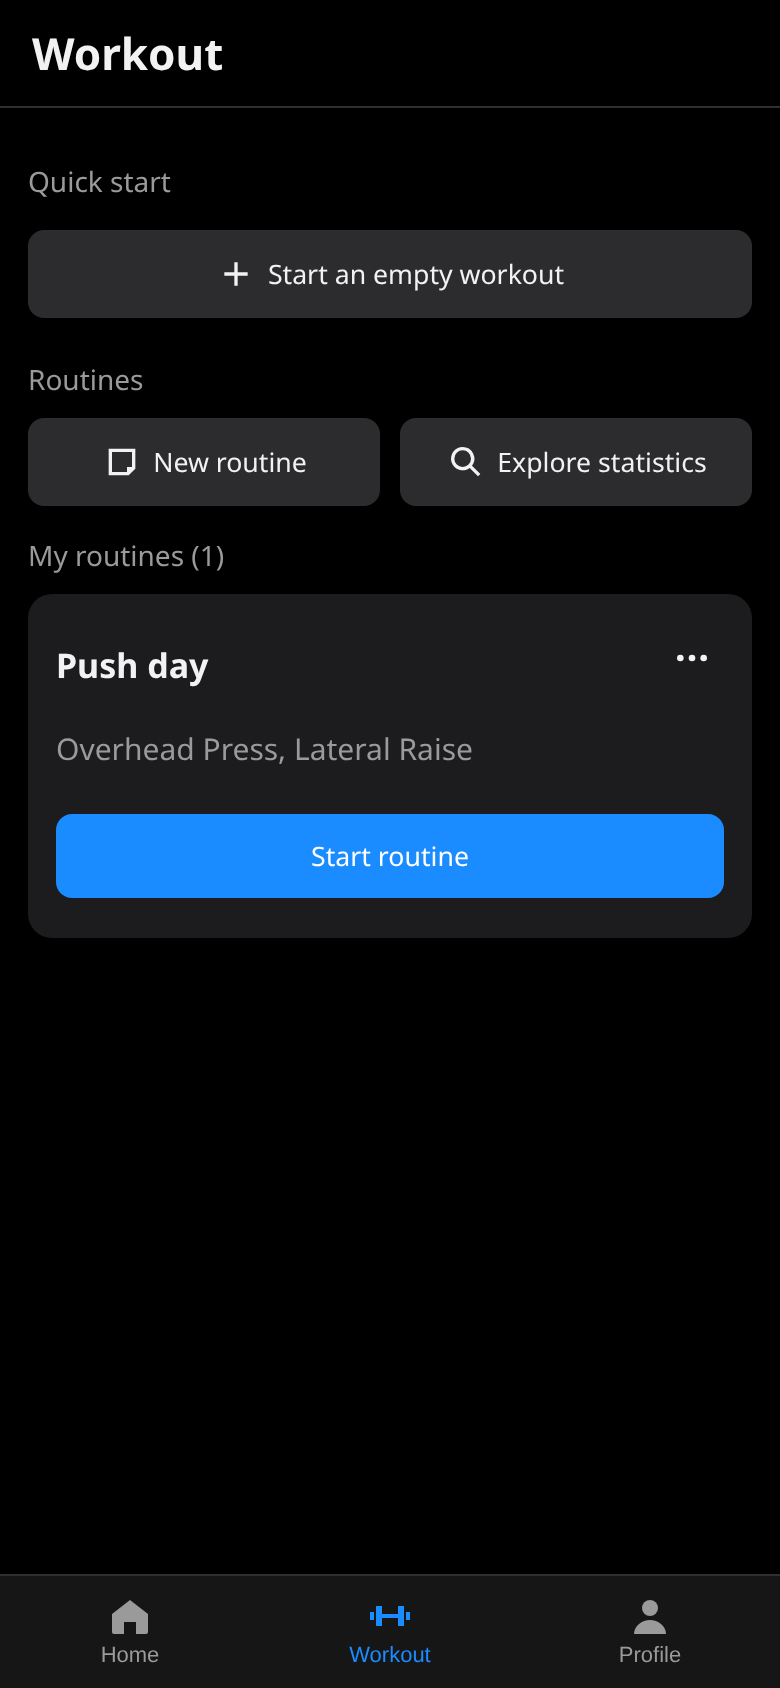
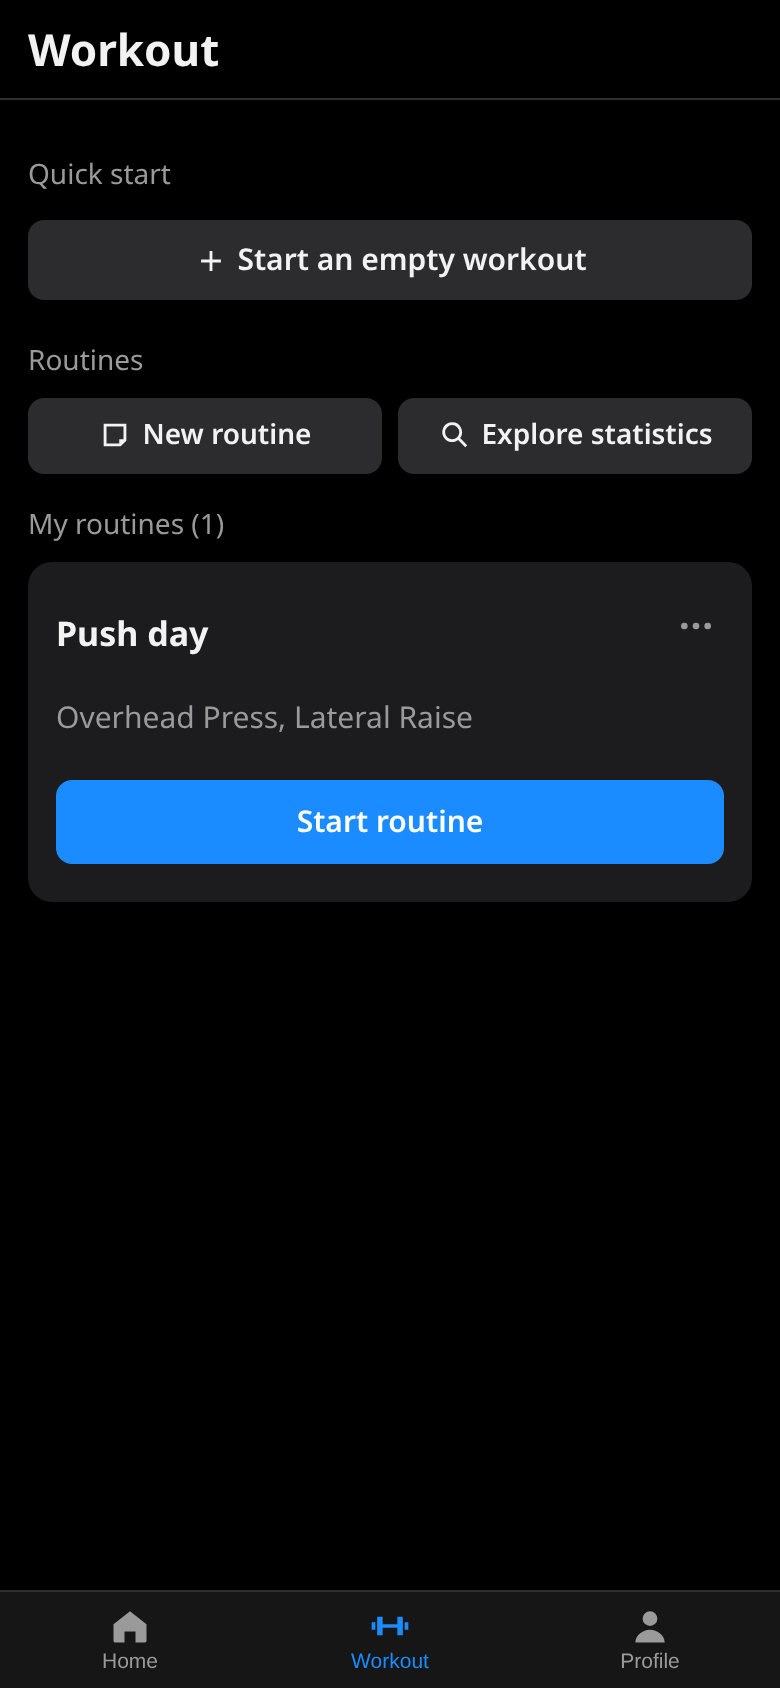
Resize buttons, tick boxes, tabs and padding to compact Hevy-like proportions

diff --git a/src/style.css b/src/style.css
@@ -58,3 +58,29 @@ svg{width:20px;height:20px;fill:currentColor;flex:none}
 .center{text-align:center}.center .card{text-align:left}.center .stats{margin:10px 0}.confetti svg{width:64px;height:64px;color:var(--gold);margin-top:30px}
 .canvas-wrap{border-radius:12px;overflow:hidden;background:#000;margin-bottom:10px}.canvas-wrap canvas{width:100%;display:block}
 .checker{background:repeating-conic-gradient(#333 0 25%,#222 0 50%) 0 0/24px 24px}
+
+/* ---- Compact sizing modelled on Hevy at 390 pixels wide ---- */
+.btn{position:relative;min-height:40px;padding:0 14px;border-radius:8px;font-size:15px;font-weight:600;gap:5px}
+.btn svg{width:17px;height:17px}
+.btn.wide{margin:5px 0}
+.btn.primary.wide{min-height:42px}
+.btn.sm{min-height:32px;padding:0 12px;font-size:14px;border-radius:7px}
+.btn.sm::after,.chip::after,.icon::after,.link::after{content:'';position:absolute;inset:-6px -2px} /* keeps the touch target at least 44 points */
+.top .btn.primary.sm{min-height:30px;padding:0 13px;font-size:14px;border-radius:6px}
+.ex .btn.dark.wide.sm{min-height:34px;color:#c7c7cc;font-size:14px;margin-top:8px}
+.btn.dark{background:var(--card2)}
+.two{gap:8px;margin:5px 0}.two .btn{min-height:38px;font-size:14px}
+.icon{position:relative;padding:4px;color:var(--muted)}.icon svg{width:20px;height:20px}
+.link{position:relative;font-size:15px}
+.chip{position:relative;padding:5px 12px;font-size:13px;border-radius:16px}
+.top{padding:calc(env(safe-area-inset-top) + 10px) 14px 8px}
+.tick{height:44px;width:40px;background:none;padding:0;color:var(--muted);display:grid;place-items:center;margin:-8px 0}
+.tick svg{width:28px;height:28px;padding:5px;border-radius:7px;background:var(--card2)}
+.done .tick{background:none}.done .tick svg{background:var(--green);color:#fff}
+.sr{padding:6px 4px;grid-template-columns:34px 1fr 60px 52px 40px}
+.sr input{padding:4px 2px;height:28px;font-size:15px}
+.tabs button{padding:6px 0 7px;font-size:10.5px;gap:1px}.tabs button svg{width:22px;height:22px}
+.mini{bottom:56px}
+.restbar{padding:8px 14px calc(8px + env(safe-area-inset-bottom));gap:8px}.restbar b{font-size:20px}
+.pick{padding:8px 0}
+.rest-line{font-size:13px}
